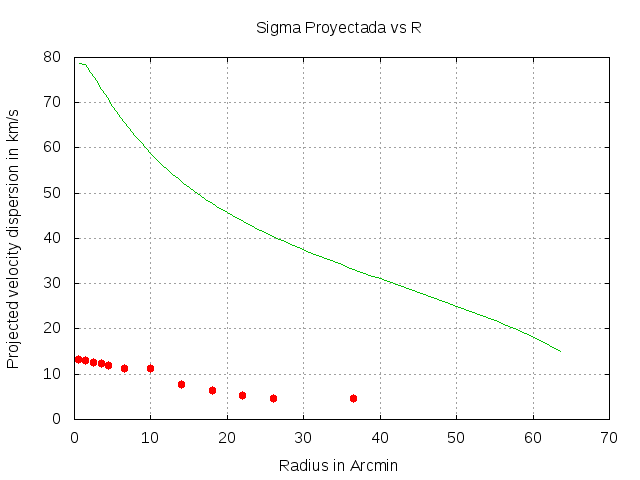
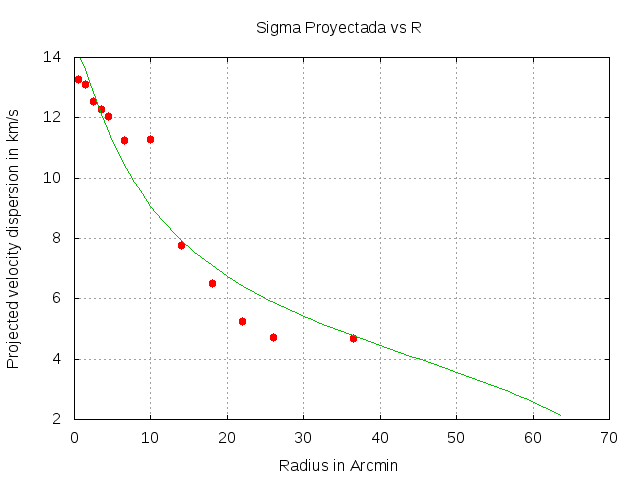
ready chi square calculation

diff --git a/modelling/matrix/pruebas/units.c b/modelling/matrix/pruebas/units.c
@@ -85,10 +85,11 @@ int main(){
   //3.50000000e-02           5.50000000e-02          1.00000000e-05   3.00000000e-04
 //2.50000000e-02           1.50000000e-02          1.00000000e-05   1.00000000e-04
 //  2.50000000e-02           5.50000000e-02          6.10000000e-04   1.00000000e-04
+//  1.50000000e-02           5.50000000e-02          1.00000000e-05          1.00000000e-04
 
-  a_dm = 2.50000000e-02;
+  a_dm = 1.50000000e-02;
   a_s = 5.50000000e-02;
-  M_dm = 6.10000000e-04;
+  M_dm = 1.0000000e-05;
   M_s = 1.00000000e-04;
   
   mod=fopen("model.dat","w"); 

diff --git a/modelling/matrix/units_chi.c b/modelling/matrix/units_chi.c
@@ -151,7 +151,7 @@ int main(){
 			    {
 			      if( R_min - R_o[j] < 0.2 && R_min - R_o[j] > -0.2 )
 				{
-				  if(sig_p != "-nan")
+				  if(sig_p > 0.0)
 				  {
 				  shi2 = (sig_p-sig_p_o[j])*(sig_p-sig_p_o[j]);
 				  shi_t = shi_t + shi2;
